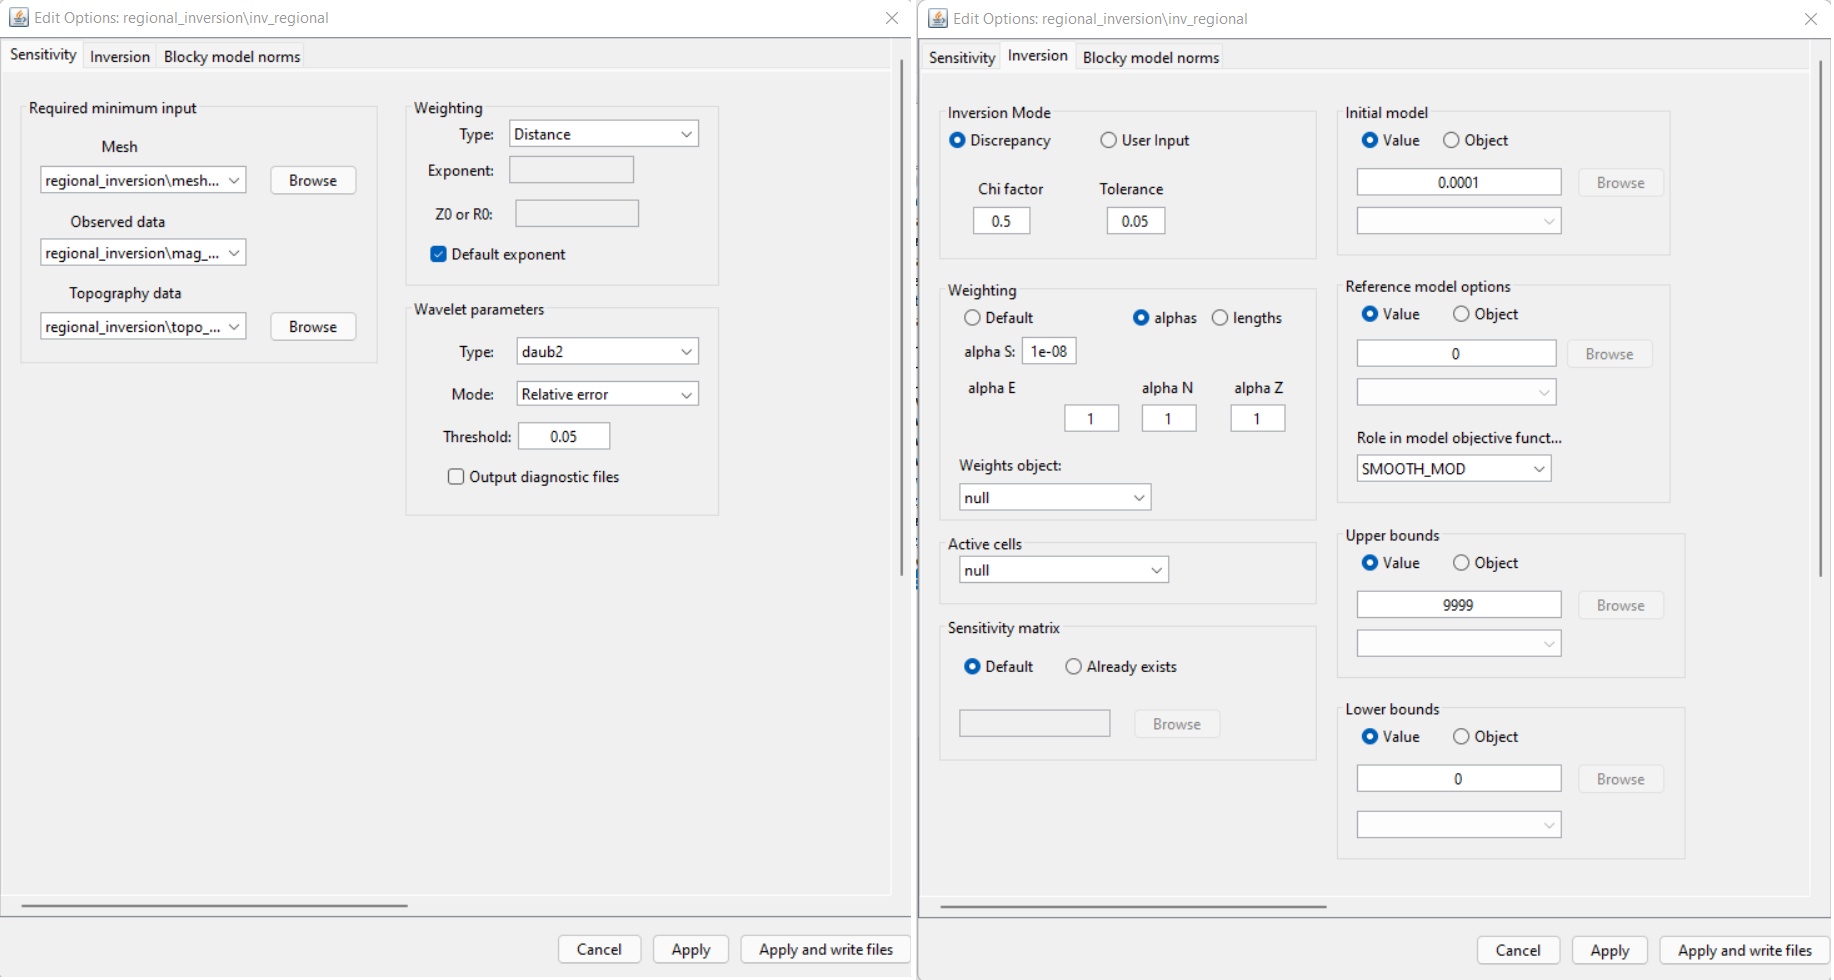
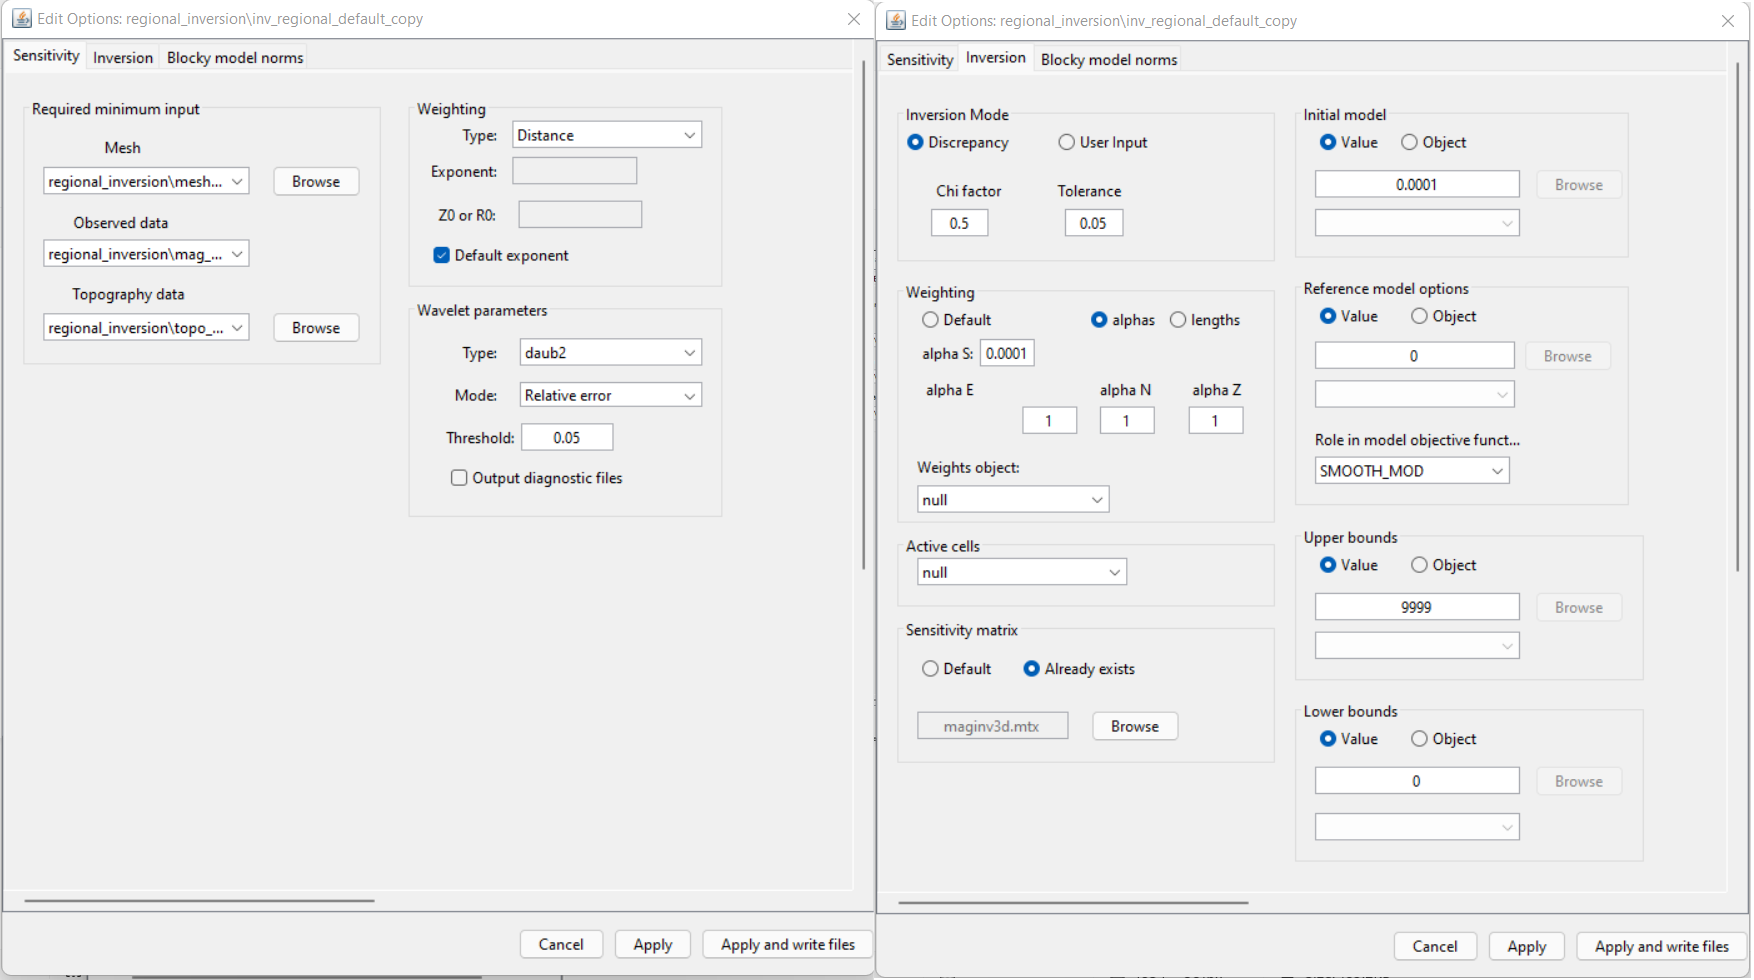
inversion images

diff --git a/content/comprehensive_workflow/magnetics/9_inversion.rst b/content/comprehensive_workflow/magnetics/9_inversion.rst
@@ -5,14 +5,19 @@
 Least Squares Inversion
 =======================
 
-If available, the inversion of regional-scale data provides a regional susceptibility model. This model can be used to remove regional trends from local survey data or account for local TMI anomalies that are truncated by the extent of the local survey area. 
 
 
 
-Running the Inversion
----------------------
 
-We can now perform the local equivalent source inversion
+
+.. If available, the inversion of regional-scale data provides a regional susceptibility model. This model can be used to remove regional trends from local survey data or account for local TMI anomalies that are truncated by the extent of the local survey area. 
+
+
+
+Running a Least-Squares Inversion
+---------------------------------
+
+The steps for setting up and running the magnetic inversion are as follows:
 
     - :ref:`Create a MAG3D v6.0 inversion object <createMagInv>`
     - Use :ref:`edit options <invEditOptions_Mag3D>` to set the inversion parameters
@@ -20,12 +25,23 @@ We can now perform the local equivalent source inversion
     - Run weights
     - Run sensitivities
     - Run inversion
-    - :ref:`Load final result <invLoadResults>`
+    - :ref:`Load results for desired iterations <invLoadResults>`
+
+
+**For the regional tutorial data,** the following inversion parameters were used.
+
+.. figure:: images/inv_regional_edit_options.png
+    :align: center
+    :width: 700
+
+
+
+
 
 
 **For the local tutorial data,** the following inversion parameters were used.
 
-.. figure:: images/inv_regional_edit_options.png
+.. figure:: images/inv_local_edit_options.png
     :align: center
     :width: 700
 
@@ -59,44 +75,3 @@ A starting model of 0.0001 SI was chosen as the starting model. This is done bec
 Here, we set a lower bound of 0 SI to enforce a positivity constraint on the recovered susceptibility model.
 
 
-Analyzing Inversion Results
----------------------------
-
-Convergence
-^^^^^^^^^^^
-
-.. figure:: images/inv_regional_convergence.png
-    :align: center
-    :width: 700
-
-
-Data Misfit
-^^^^^^^^^^^
-
-
-
-.. figure:: images/inv_regional_misfit_iter9_smoothest.png
-    :align: center
-    :width: 700
-
-
-.. figure:: images/inv_regional_misfit_iter9_default.png
-    :align: center
-    :width: 700
-
-
-.. figure:: images/inv_regional_misfit_profile.png
-    :align: center
-    :width: 700
-
-
-
-Recovered Model
-^^^^^^^^^^^^^^^
-
-
-
-
-.. figure:: images/inv_regional_models_iter9.png
-    :align: center
-    :width: 700

diff --git a/content/comprehensive_workflow/magnetics/10_inversion_results.rst b/content/comprehensive_workflow/magnetics/10_inversion_results.rst
@@ -6,4 +6,82 @@ Examining Inversion Outputs
 ===========================
 
 
+Regional Inversion
+------------------
 
+Convergence
+^^^^^^^^^^^
+
+.. figure:: images/inv_regional_convergence.png
+    :align: center
+    :width: 700
+
+
+Data Misfit
+^^^^^^^^^^^
+
+
+
+.. figure:: images/inv_regional_misfit.png
+    :align: center
+    :width: 700
+
+
+
+.. figure:: images/inv_regional_misfit_profile.png
+    :align: center
+    :width: 700
+
+
+
+Recovered Model
+^^^^^^^^^^^^^^^
+
+
+
+
+.. figure:: images/inv_regional_model.png
+    :align: center
+    :width: 700
+
+
+
+Local Inversion (Polynomial Detrended)
+--------------------------------------
+
+
+
+Convergence
+^^^^^^^^^^^
+
+.. figure:: images/inv_local_convergence.png
+    :align: center
+    :width: 700
+
+
+Data Misfit
+^^^^^^^^^^^
+
+
+
+.. figure:: images/inv_local_misfit.png
+    :align: center
+    :width: 700
+
+
+
+.. figure:: images/inv_local_misfit_profile.png
+    :align: center
+    :width: 700
+
+
+
+Recovered Model
+^^^^^^^^^^^^^^^
+
+
+
+
+.. figure:: images/inv_local_model.png
+    :align: center
+    :width: 700
